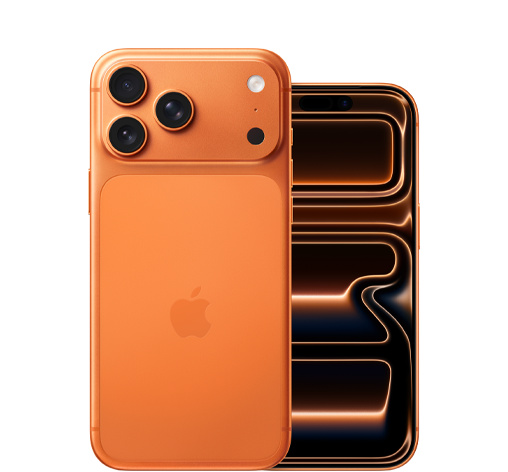
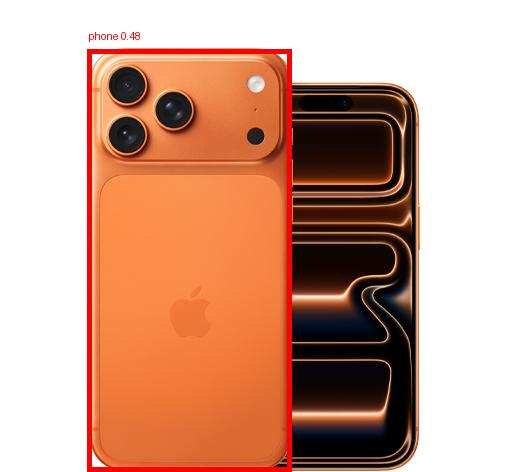
Object detection

diff --git a/backend/localization.py b/backend/localization.py
@@ -1,0 +1,90 @@
+from PIL import Image, ImageDraw
+
+import torch
+
+from transformers import (
+    Owlv2Processor,
+    Owlv2ForObjectDetection
+)
+
+print("Loading OWLv2...")
+
+device = "mps" if torch.backends.mps.is_available() else "cpu"
+
+processor = Owlv2Processor.from_pretrained(
+    "google/owlv2-base-patch16-ensemble"
+)
+
+model = Owlv2ForObjectDetection.from_pretrained(
+    "google/owlv2-base-patch16-ensemble"
+).to(device)
+
+print("OWLv2 Ready")
+
+
+def localize_object(image, label, save_path):
+
+    inputs = processor(
+        text=[[label]],
+        images=image,
+        return_tensors="pt"
+    )
+
+    inputs = {
+        k: v.to(device)
+        for k, v in inputs.items()
+    }
+
+    with torch.no_grad():
+
+        outputs = model(**inputs)
+
+    target_sizes = torch.tensor(
+        [image.size[::-1]]
+    ).to(device)
+
+    results = processor.post_process_grounded_object_detection(
+        outputs,
+        threshold=0.12,
+        target_sizes=target_sizes,
+        text_labels=[[label]]
+    )[0]
+
+    draw = ImageDraw.Draw(image)
+
+    best_score = -1
+
+    best_box = None
+
+    for score, box in zip(
+        results["scores"],
+        results["boxes"]
+    ):
+
+        score = score.item()
+
+        if score > best_score:
+
+            best_score = score
+
+            best_box = box
+
+    if best_box is not None:
+
+        x1, y1, x2, y2 = best_box.tolist()
+
+        draw.rectangle(
+            [x1, y1, x2, y2],
+            outline="red",
+            width=5
+        )
+
+        draw.text(
+            (x1, y1 - 20),
+            f"{label} {best_score:.2f}",
+            fill="red"
+        )
+
+    image.save(save_path)
+
+    return "/" + save_path

diff --git a/backend/main.py b/backend/main.py
@@ -16,6 +16,7 @@ from backend.chat import analyze_image, ask_ai
 from backend.web_search import search_web_images
 from backend.shopping import shopping_links
 from backend.category import detect_category
+from backend.localization import localize_object
 
 app = FastAPI()
 
@@ -60,6 +61,7 @@ async def predict(
     ai_info = None
     shopping = None
     web_images = []
+    boxed_image = "/" + file_path
 
     DOCUMENT_KEYWORDS = [
         "document",
@@ -89,6 +91,7 @@ async def predict(
             "class": ai_info["object"],
             "confidence": round(scene[0]["confidence"], 2)
         }
+    
         search_query = ai_info.get("search_query", "")
 
         if not search_query or not search_query.strip():
@@ -125,6 +128,11 @@ async def predict(
             "class": ai_info["object"],
             "confidence": round(scene[0]["confidence"], 2)
         }
+        boxed_image = localize_object(
+            image=image,
+            label=ai_info["category"],
+            save_path=file_path
+        )
         search_query = ai_info.get("search_query", "")
 
         if not search_query or not search_query.strip():
@@ -172,7 +180,7 @@ async def predict(
             "caption": caption,
             "ocr_text": ocr_text,
             "similar_images": similar,
-            "image_path": "/" + file_path,
+            "image_path": boxed_image,
             "info": info,
             "web_images": web_images,
             "ai_info": ai_info,
